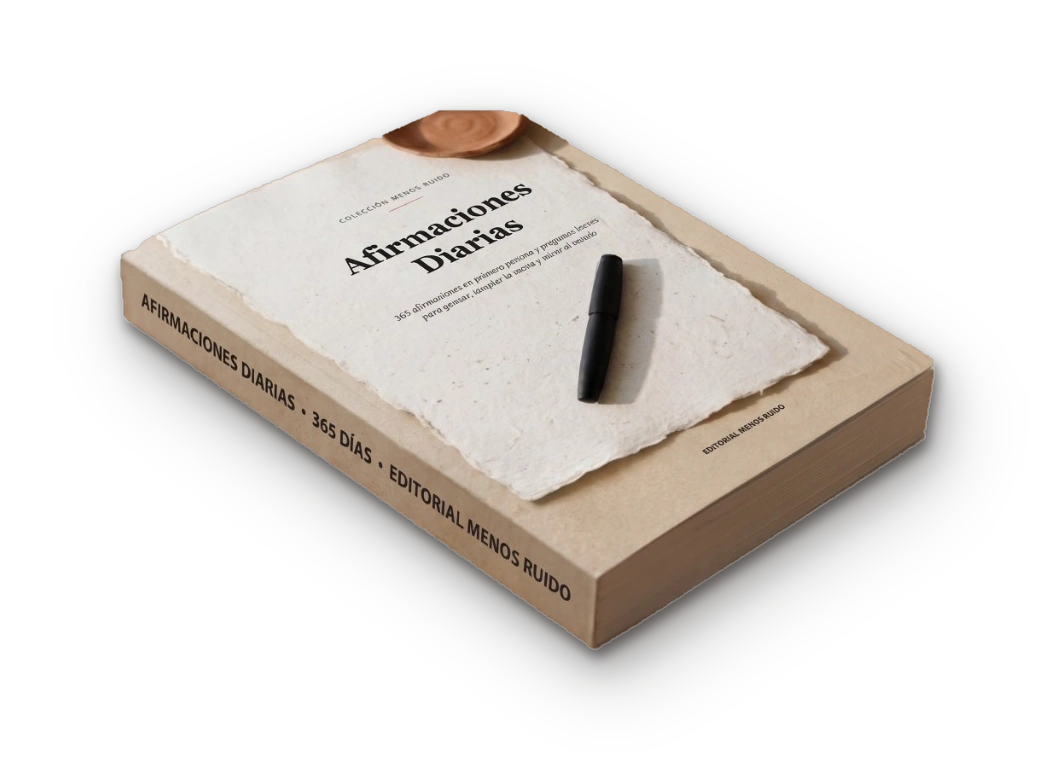
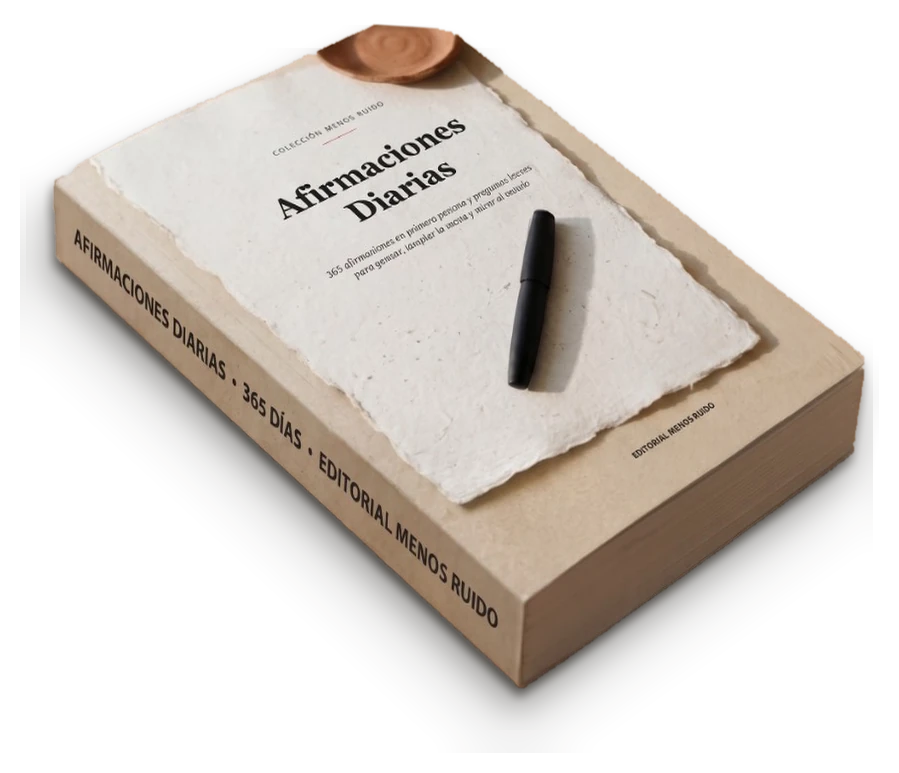
fix(afirmaciones): reparar imagen rota de tarjeta de lectura y presentar libro hero mas levantado

Changed region(s): [[0.0311, 0.0303, 0.9967, 0.9406]]

diff --git a/afirmaciones-diarias.html b/afirmaciones-diarias.html
@@ -198,7 +198,7 @@
                 </div>
 
                 <div class="hero-image fade-in delay-3" style="text-align: center; flex: 1.25; display: flex; justify-content: center; align-items: center;">
-                    <img src="/images/libros/afirmaciones-diarias/cuaderno-afirmaciones-real-hero.webp?v=3" alt="Foto real del cuaderno Afirmaciones Diarias" style="max-width: 560px; width: 100%; height: auto; display: block; cursor: default; user-select: none; pointer-events: none;" loading="eager" />
+                    <img src="/images/libros/afirmaciones-diarias/cuaderno-afirmaciones-real-hero.webp?v=4" alt="Foto real del cuaderno Afirmaciones Diarias" style="max-width: 560px; width: 100%; height: auto; display: block; cursor: default; user-select: none; pointer-events: none;" loading="eager" />
                 </div>
             </div>
             <div class="bg-shape"></div>
@@ -463,7 +463,7 @@
                     <div class="reading-card" style="display: flex; flex-direction: column; justify-content: space-between; cursor: default; border-top: 4px solid var(--color-accent); background: linear-gradient(180deg, #ffffff 0%, #fdfaf7 100%);">
                         <div>
                             <a href="/por-que-el-papel-ordena-lo-que-la-pantalla-satura.html" class="reading-card-thumb" style="text-decoration: none;">
-                                <img src="/images/lecturas/papel-pantalla-portada.webp" alt="Por qué el papel ordena lo que la pantalla satura" loading="lazy">
+                                <img src="/images/lecturas/papel-ordena-pantalla-portada.webp" alt="Por qué el papel ordena lo que la pantalla satura" loading="lazy">
                             </a>
                             <div style="display: flex; gap: 0.5rem; flex-wrap: wrap; margin-bottom: 0.6rem; align-items: center;">
                                 <span class="reading-tag" style="margin-bottom: 0;">Neurobiología & Escritura</span>
